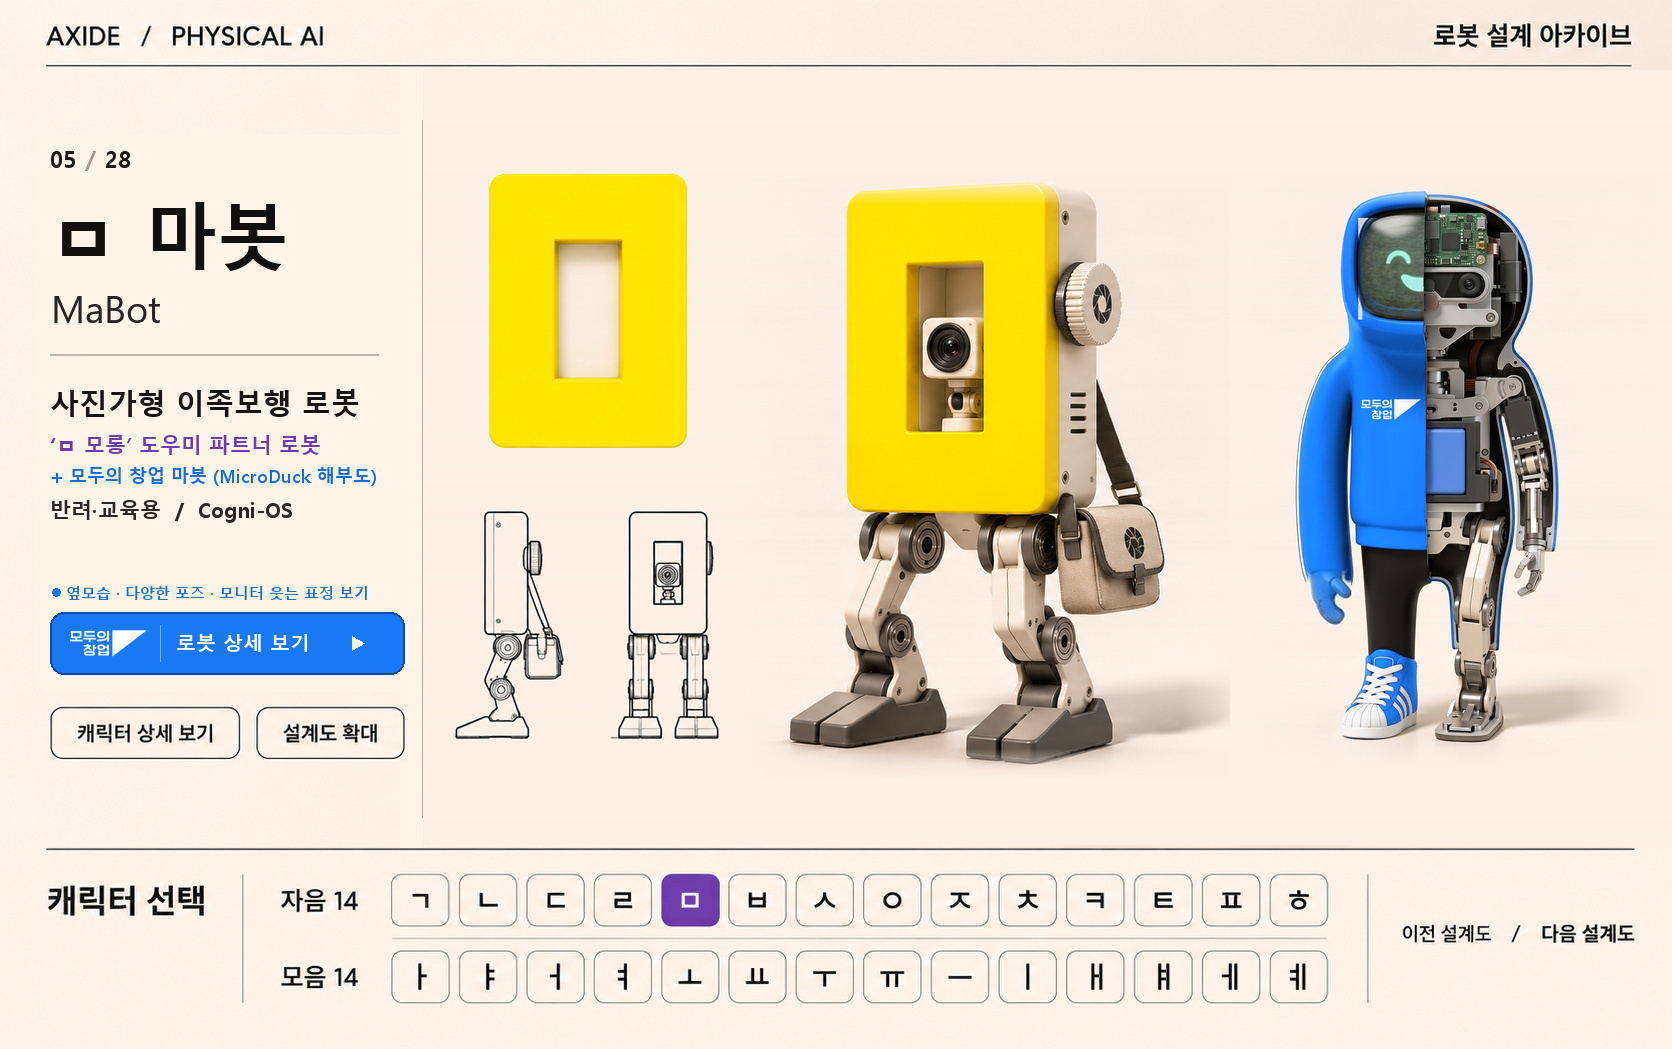
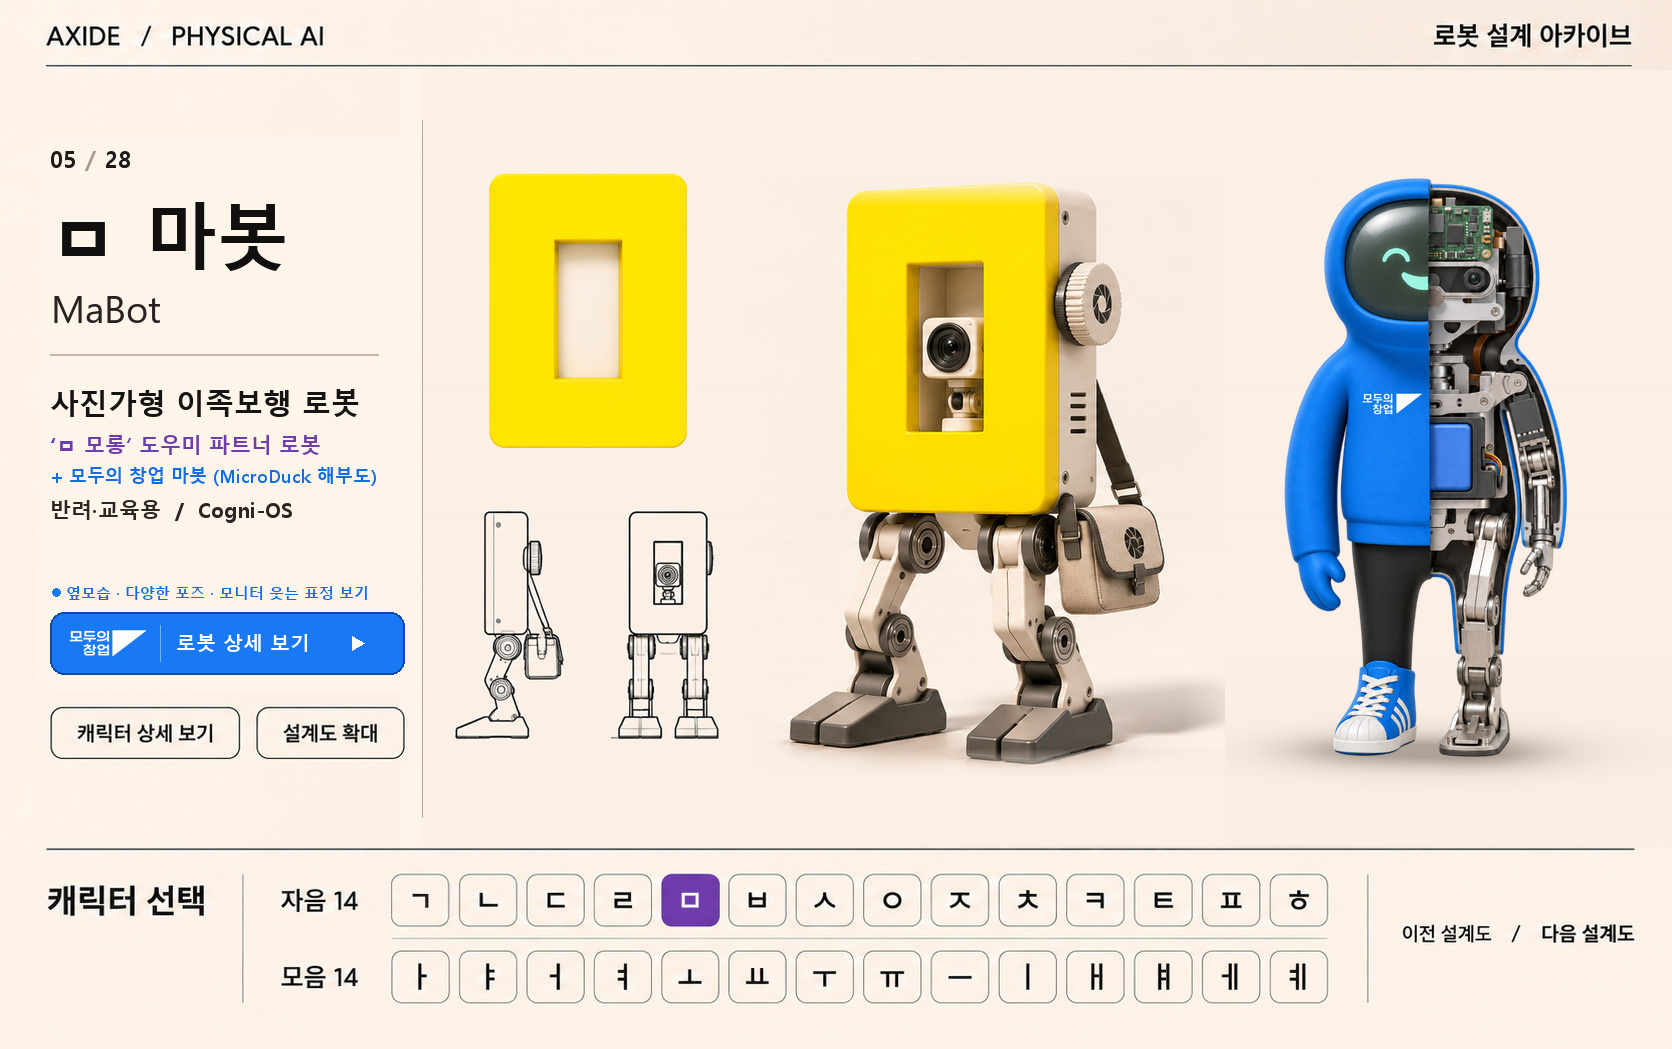
feat(story): replace MaBot cutaway robot with uploaded high-precision first cutaway character

Changed region(s): [[0.7464, 0.1525, 0.9641, 0.7321]]

diff --git a/story.html b/story.html
@@ -3619,7 +3619,7 @@
             }
             // Hangul Jamo Bipedal Partner Robot Archive Board (ㄱ 가봇 ~ ㅖ 예봇)
             function getJamoPartnerRobotUrl(idx) {
-                return 'assets/images/somoo-jamo-robot/jr_' + pad2(idx + 1) + '.jpg?v=20261107_jambot_v10';
+                return 'assets/images/somoo-jamo-robot/jr_' + pad2(idx + 1) + '.jpg?v=20261107_jambot_v11';
             }
 
             var currentBpShowcaseIdx = 0;
@@ -3935,7 +3935,7 @@
                     thumbTagColor: '#ffffff'
                 });
                 // Special Edition for idx === 4 (ㅁ 마봇): '모두의 창업' 스페셜 로봇 턴어라운드·포즈·웃는 모니터 표정 상세 도감
-                var moduSheetUrl = 'assets/images/somoo-jamo-robot/modu_startup_robot_sheet.jpg?v=20261107_modu_v2';
+                var moduSheetUrl = 'assets/images/somoo-jamo-robot/modu_startup_robot_sheet.jpg?v=20261107_modu_v3';
                 var moduSheetTitle = '‘모두의 창업’ 스페셜 로봇 상세 도감 — 90° 정밀 옆모습 · 다양한 액션 포즈 · CRT 모니터 웃는 표정 & MicroDuck 절반 해부도';
                 var moduSheetShort = '모두의 창업 로봇 상세 도감 (옆모습 · 포즈 · 웃는 모니터 표정)';
                 if (idx === 4) {
